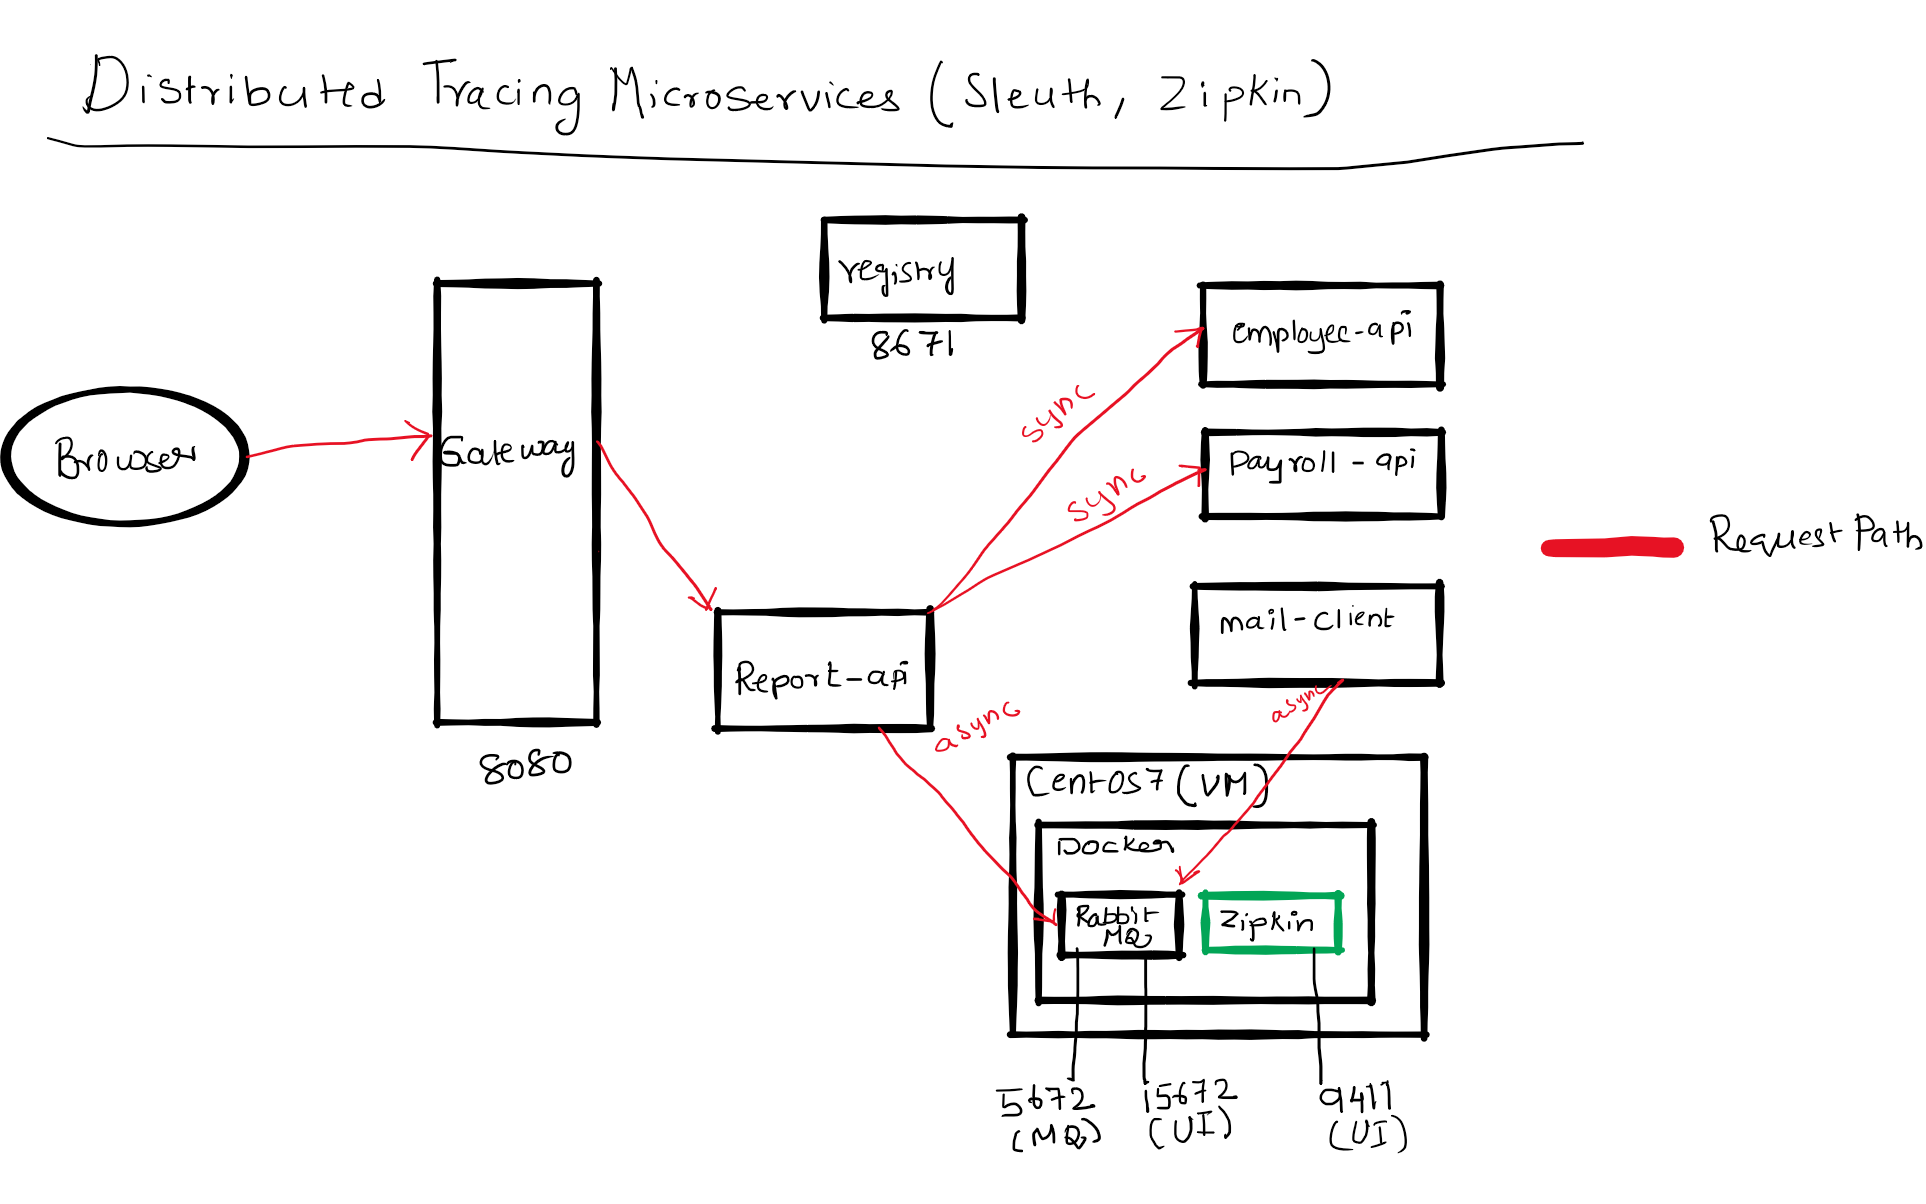
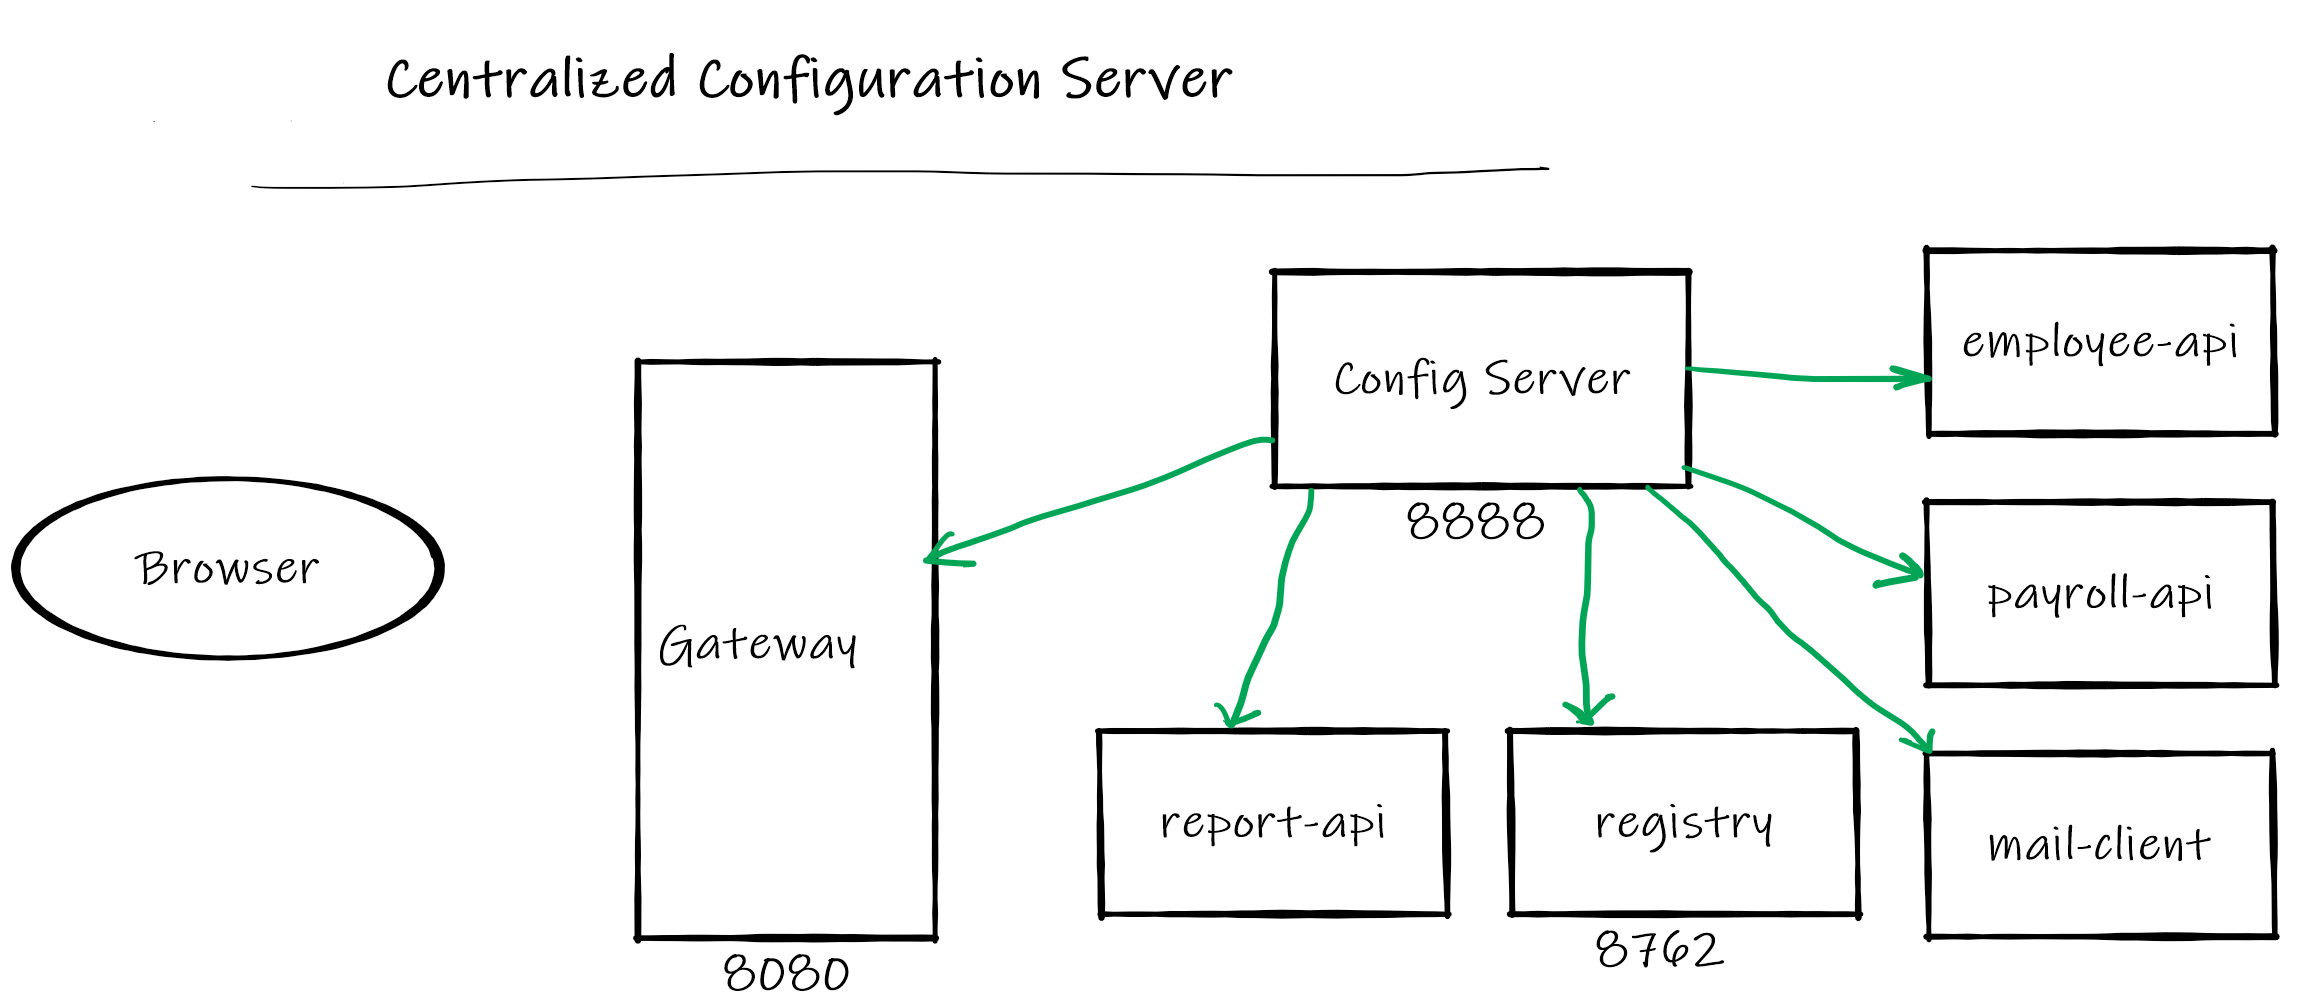
updated architecutre

diff --git a/README.md b/README.md
@@ -53,34 +53,38 @@ at  spring-cloud-session-7-microservices-centralized-configuration.postman_colle
 - Get Configurations of report-api  with **default** profile``` curl -s -L http://localhost:8888/report-api/default ```
  
 # Code
-In this section we will focus only employee-api and add sleuth and zipkin as dependency. This will automatically enable
-employee-api to write trace information to zipkin queue that is present in RabbitMQ Server. Note the configs are same for 
-other microservices.
+- All the microservices configurations are present in folder **config-repo**
+- In config-repo folder **application.yml** contains common configurations across microservices
+- Save every micorservice configuration with microservicename.yml. This will be default profile for the microservice
+- For example employee-api.yml contains a configuration of employee-api microservice with default profile.
+- Every microservice should have **boostrap.yml** that contains information to connect to config server.
+- Every microservice should have **spring-cloud-config-server** and **spring-retry** as dependency
 
-**pom.xml**
+**pom.xml** for employee-api
 ```xml
-         <dependency>
-             <groupId>org.springframework.cloud</groupId>
-             <artifactId>spring-cloud-starter-sleuth</artifactId>
-         </dependency>
-         <dependency>
-             <groupId>org.springframework.cloud</groupId>
-             <artifactId>spring-cloud-starter-zipkin</artifactId>
-         </dependency>
-         <dependency>
-             <groupId>org.springframework.cloud</groupId>
-             <artifactId>spring-cloud-starter-stream-rabbit</artifactId>
-         </dependency>
+<dependency>
+    <groupId>org.springframework.cloud</groupId>
+    <artifactId>spring-cloud-starter-config</artifactId>
+</dependency>
+<dependency>
+    <groupId>org.springframework.retry</groupId>
+    <artifactId>spring-retry</artifactId>
+</dependency>
 ```
-**application.yml** in employee-api.  Asking zipkin to use RabbitMQ as messagebus and Sleuth to send every trace information.
-By default, Sleuth will send only 10% of trace information.
+**boostrap.yml** of employee-api, Where it points to configuration server
 ```yaml
- zipkin:
-     sender:
-       type: rabbit
-   sleuth:
-     sampler:
-       probability:  1.0
+ app.config-server: localhost
+ 
+ spring:
+   application.name: employee-api
+   cloud.config:
+     failFast: true
+     retry:
+       initialInterval: 3000
+       multiplier: 1.3
+       maxInterval: 10000
+       maxAttempts: 20
+     uri: http://localhost:8888
 ```
 # References
 - Spring Microservices in Action by John Carnell 
